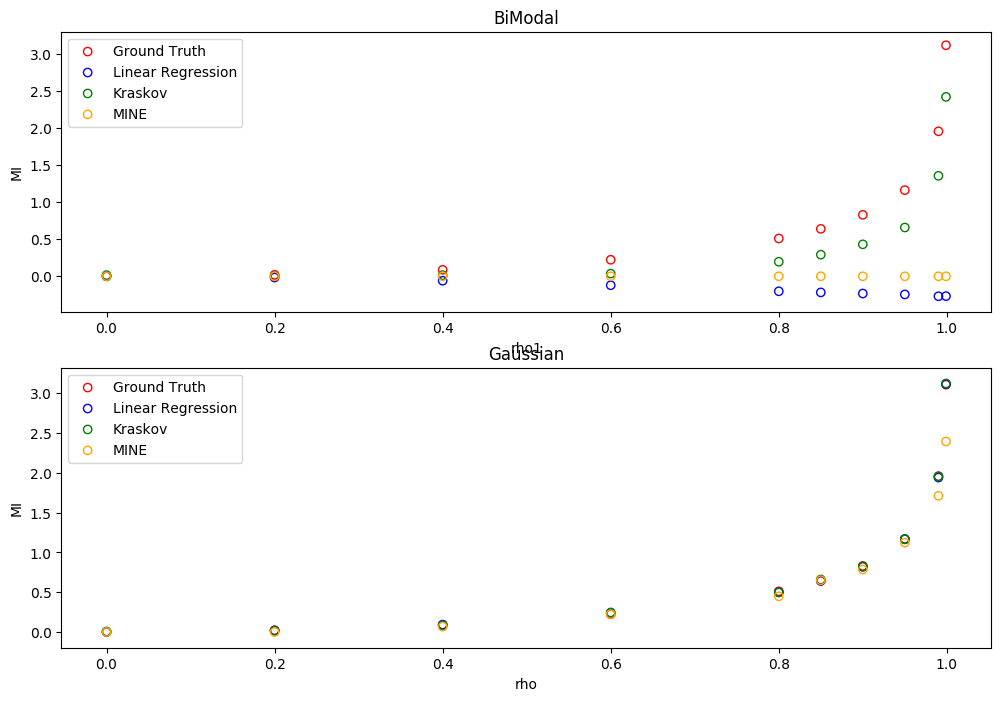
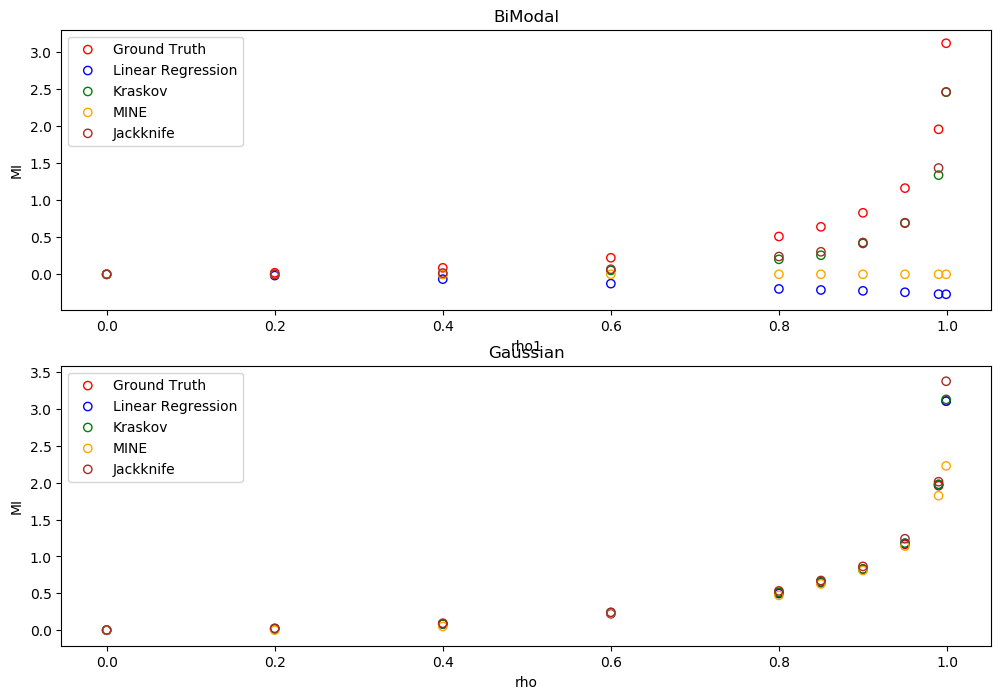
Added jackknife approach as comparison

diff --git a/model/jackknife.py b/model/jackknife.py
@@ -1,0 +1,36 @@
+#Ported by Michael Lim
+#Original R code is in https://github.com/XianliZeng/JMI
+#Original paper:
+#X. Zeng, Y. Xia, and H. Tong, “Jackknife approach to the estimation of mutual information,” 
+#    Proceedings of the National Academy of Sciences, vol. 115, no. 40, pp. 9956–9961, 2018.
+
+
+#R to Python interfacing
+import rpy2.robjects as robj
+import rpy2.robjects.packages as rpackages
+import rpy2.robjects.numpy2ri
+rpy2.robjects.numpy2ri.activate()
+    
+#import jackknife MI estimator library
+#requires R 3.4.4 and the jackknife library in the computer
+mJMI = rpackages.importr('mJMI')
+
+class Jackknife():
+    def __init__(self, n_sim):
+        self.n_sim = n_sim
+    def predict(self, X):
+        xs = X[:, 0]
+        ys = X[:, 1]
+        
+        xs = xs.reshape(-1,1)
+        ys = ys.reshape(-1,1)
+
+        #convert data to R matrix
+        xr, xc = xs.shape
+        x = robj.r.matrix(xs, nrow=xr, ncol=xc)
+        yr, yc = ys.shape
+        y = robj.r.matrix(ys, nrow=yr, ncol=yc)
+  
+        #run the jackknife algorithm and return the result in function
+        jmi = mJMI.mJMICpp(x, y, self.n_sim)
+        return jmi.rx2('mi')[0]

diff --git a/settings.py b/settings.py
@@ -2,6 +2,7 @@
 from model.linear_regression import LinearReg
 from model.mine import Mine
 from model.kraskov import Kraskov
+from model.jackknife import Jackknife
 from data.bimodal import BiModal
 from data.gaussian import Gaussian
 
@@ -38,7 +39,14 @@ model = {
             verbose=False
         ), 
         'color': 'orange'
-    }
+    },
+    'Jackknife': {
+        'model': Jackknife(
+            n_sim = 1
+        ),
+        'color': 'brown'
+    },
+    
 }
 
 n_samples = batch_size * 20
